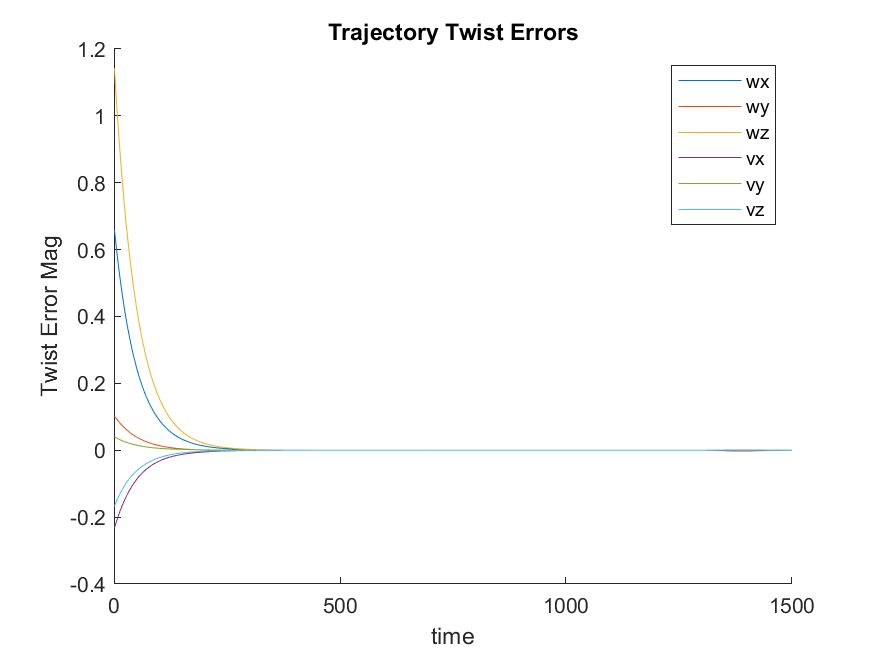
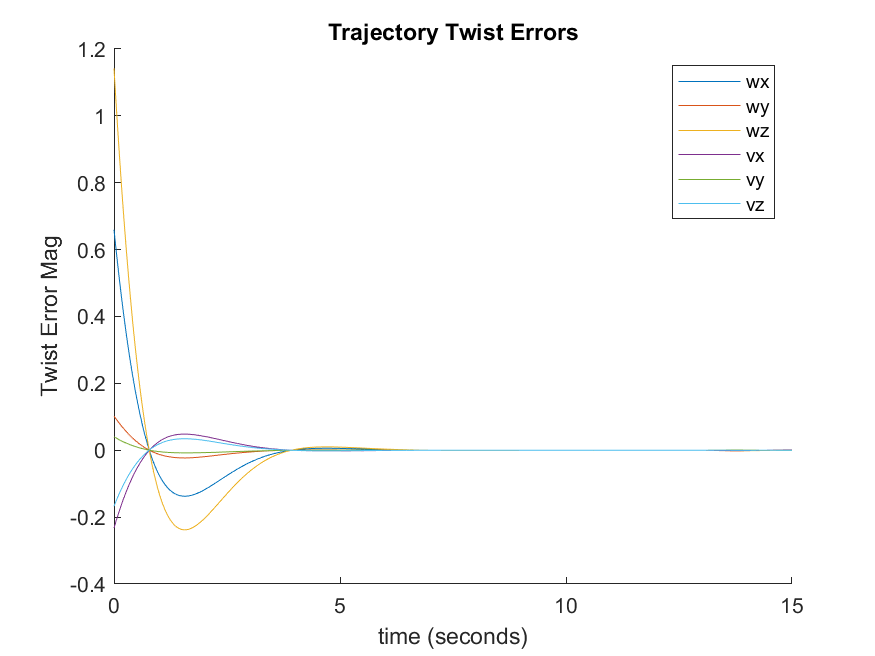
plot update

diff --git a/Nathans_code_old/trajectoryGenerator.m b/Nathans_code_old/trajectoryGenerator.m
@@ -1,0 +1,36 @@
+function configs = trajectoryGenerator(Tse_i, Tsc_i, Tsc_f, Tce_g, Tce_s, k)
+
+Tse_si = Tsc_i*Tce_s; % intial standoff in s frame
+
+Tse_g = Tsc_i*Tce_g; % grip config in s frame
+
+Tse_sf = Tsc_f*Tce_s; % final standoff in s frame
+
+Tse_g_f = Tsc_f*Tce_g; %final e-e pos at in final pos. cube orientation
+
+T0 = [Tse_i, Tse_si, Tse_g, Tse_si, Tse_sf, Tse_g_f, Tse_sf]; %initial grip conditions
+T1 = [T0(:,5:end) Tse_i];
+
+
+grip = [0 0 1 1 1 0 0]; %final gripper state
+t = [10 10 10 10 10 10 10];
+
+n = 0;
+for i = 1:length(t)
+    n = n+t(i)*k/0.01;
+end
+
+configs = zeros(n,13);
+for i = 1:(length(T0)/4)
+    N = t(i)*k/0.01;
+    
+    temp = ScrewTrajectory(T0(:,4*i-3:4*i),T1(:,4*i-3:4*i),t(i),N,5);
+    for j = 1:length(temp)
+        mat = temp{j};
+        configs(N*i-N+j,:) = [mat(1,1) mat(1,2) mat(1,3) mat(2,1) mat(2,2) mat(2,3) mat(3,1) mat(3,2) mat(3,3) mat(1,4) mat(2,4) mat(3,4) grip(i)];
+    end    
+
+end
+
+
+end

diff --git a/Nathans_code_old/ref_trajectory_gen.m b/Nathans_code_old/ref_trajectory_gen.m
@@ -1,0 +1,37 @@
+clear all; close all; clc;
+
+Tse_i = [1 0 0 0;
+        0 1 0 0;
+        0 0 1 1;
+        0 0 0 1];
+
+Tsc_i = [1 0 0 1;
+        0 1 0 0;
+        0 0 1 0.025;
+        0 0 0 1];
+
+Tsc_f = [0 1 0 0;
+        -1 0 0 -1;
+        0 0 1 0.025;
+        0 0 0 1];
+w = 3*pi/4;
+% The configuration of the end-effector relative to the cube while grasping
+Tce_g = [cos(w) 0 sin(w) 0;
+        0 1 0 0;
+        -sin(w) 0 cos(w) 0;
+        0 0 0 1];
+
+%The standoff configuration of the end-effector above the cube, before and after grasping, relative to the cube
+Tce_s = [cos(w) 0 sin(w) 0;
+        0 1 0 0;
+        -sin(w) 0 cos(w) 0.3;
+        0 0 0 1];
+k=1;
+
+configs = trajectoryGenerator(Tse_i, Tsc_i, Tsc_f, Tce_g, Tce_s, k);
+
+
+csvwrite("RefTrajGenTest.csv", configs);
+
+
+

diff --git a/plotError.m b/plotError.m
@@ -15,17 +15,19 @@ function plotError(varargin)
         return
     end
 
+    t = linspace(0,15,length(data));
+
     figure(1)
     hold on
-    plot(data(:,1))
-    plot(data(:,2))
-    plot(data(:,3))
-    plot(data(:,4))
-    plot(data(:,5))
-    plot(data(:,6))
+    plot(t,data(:,1))
+    plot(t,data(:,2))
+    plot(t,data(:,3))
+    plot(t,data(:,4))
+    plot(t,data(:,5))
+    plot(t,data(:,6))
     legend('wx' , 'wy', 'wz', 'vx', 'vy', 'vz')
     title("Trajectory Twist Errors")
-    xlabel("time")
+    xlabel("time (seconds)")
     ylabel("Twist Error Mag")
 
     saveas(gcf, "Error.png");

diff --git a/Nathans_code_old/nextState.m b/Nathans_code_old/nextState.m
@@ -1,0 +1,36 @@
+function state1 = nextState(state0, vels, dt, vMax)
+
+% limit max velocities
+k = length(vels);
+for i = 1:k
+    if abs(vels(k))>vMax
+        vels(i) = sign(vels(i))*vMax
+    end
+end
+
+% initialize states
+state1 = state0;
+
+l = 0.74/2;
+w = 0.3/2;
+r = 0.0475;
+
+u = vels(6:end)';
+q = odometry(u,w,l,r);
+
+%chasis
+for i = 1:3
+    state1(i) = state0(i) + q(i);
+end
+
+%arm
+for i = 4:8
+    state1(i) = state0(i) + vels(i)*dt;
+end
+
+%wheel angles
+for i =9:12
+    state1(i) = state0(i) +vels(i-3)*dt;
+end
+
+end

diff --git a/Nathans_code_old/odometry.m b/Nathans_code_old/odometry.m
@@ -1,0 +1,20 @@
+function qk_1 = odometry(u, w, l, r)
+    M = [-1/(l + w) 1/(l + w) 1/(l + w) -1/(l + w);
+         1 1 1 1;
+         -1 1 -1 1];
+
+    V = r/4 .* (M * u);
+    w = V(1);
+    vx = V(2);
+    vy = V(3);
+    
+    if w == 0
+        dq_b = [0, vx, vy]';
+    else
+        dq_b = [w, (vx*sin(w) + vy*(cos(w) - 1))/w, (vy*sin(w) + vx*(1 - cos(w)))/w]';
+    end
+    R = [1 0 0;
+       0 cos(w) -sin(w);
+       0 sin(w) cos(w)];
+    qk_1 = R*dq_b;
+end

diff --git a/Nathans_code_old/nextstep_test_nathan.m b/Nathans_code_old/nextstep_test_nathan.m
@@ -1,0 +1,29 @@
+clear all; close all; clc;
+
+% Nathan Cramer
+% PID: A15918995
+% FINAL PROJECT
+
+
+%% Part 1 Kinematic Simulator (NextState)
+
+vs = [1 1 1 1 1 -.2 .2 .2 -.2]; %test to compare w parker
+
+t_end = 1; %second
+t_steps = 100; %number of steps
+dt = t_end/t_steps;
+vMax = 5;
+
+x = zeros(t_steps,13);
+for i = 2:t_steps
+    x(i,1:12) = nextState(x(i-1, 1:12), vs, dt, vMax);
+end
+
+csvwrite("nextStateTestData.csv", x);
+
+
+
+
+
+
+

diff --git a/jointLim.m b/jointLim.m
@@ -14,7 +14,7 @@ function [x1, sb] = jointLim(x0)
     qLim2 = [inf, pi/2, 5*pi/6, 5*pi/6, inf]; % Upper Limits for arm joint angles
     
     sb = false(1, length(q));
-    for i = 1:length(q) %checks joint angles with limits and replaces valuesoutside limits
+    for i = 1:length(q) %checks joint angles with limits and replaces values outside limits
         [q(i), sb(i)] = bound(q(i), qLim1(i), qLim2(i));
     end
     

diff --git a/trajectoriesNewTask.m b/trajectoriesNewTask.m
@@ -11,7 +11,7 @@ T_sc_i = [1 0 0 1;% initial cube configuration in s frame
           0 0 1 0;
           0 0 0 1];
 
-T_sc_f = [0 1 0 1;%final cube config in s frame
+T_sc_f = [0 1 0 1; %final cube config in s frame
           -1 0 0 -1;
           0 0 1 0;
           0 0 0 1];
